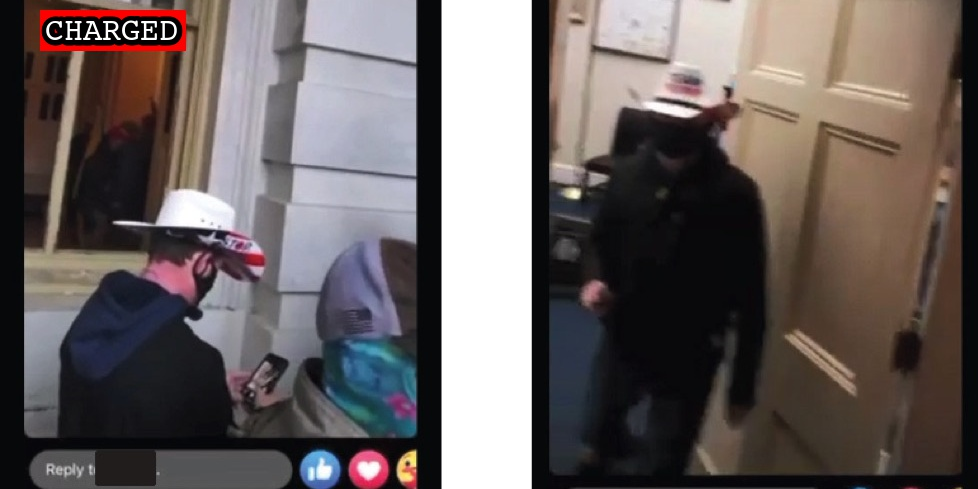
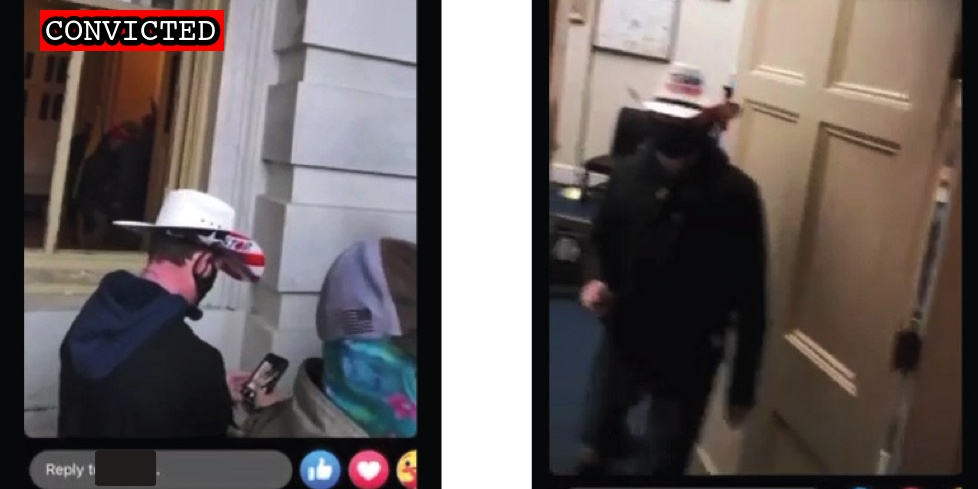
Latest import

Changed region(s): [[0.0613, 0.0, 0.2454, 0.1227]]

diff --git a/docs/_suspects/roger-baugh.md b/docs/_suspects/roger-baugh.md
@@ -1,0 +1,53 @@
+---
+name: Roger Baugh
+lastName: Baugh
+hashtag:
+aka:
+residence: Kentucky
+status: Charged
+date: 2022-09-20
+charged: 2022-09-20
+indicted:
+convicted: 2022-10-21
+acquitted:
+sentenced:
+dismissed:
+deceased:
+plea_hearing:
+trial_date:
+trial_type:
+sentencing:
+status_conference:
+age:
+occupation:
+affiliations:
+jurisdiction: Federal
+image: /images/preview/roger-baugh.jpg
+suspect: roger-baugh.jpg
+booking:
+courtroom:
+courthouse:
+raid:
+perpwalk:
+quote:
+title: Roger Baugh charged on September 20th, 2022
+description: Click for latest case details. Suspects innocent until proven guilty.
+author: seditiontrack
+layout: suspect
+published: false
+caseNumber: 22-cr-0313
+caseName:
+judge:
+videos:
+charges:
+  - code: 18 USC § 231(a)(3)
+    title: Obstruction of Law Enforcement During Civil Disorder
+    url: https://www.law.cornell.edu/uscode/text/18/231
+    felony: true
+sentence:
+---
+
+- [News Report]()
+- [Information](https://www.justice.gov/usao-dc/case-multi-defendant/file/1546241/download)
+- [Plea Agreement](https://www.justice.gov/usao-dc/case-multi-defendant/file/1546246/download)
+- [Statement of Offense](https://www.justice.gov/usao-dc/case-multi-defendant/file/1546251/download)

diff --git a/docs/_suspects/kenneth-massie.md b/docs/_suspects/kenneth-massie.md
@@ -4,16 +4,16 @@ lastName: Massie
 hashtag:
 aka:
 residence: Ohio
-status: Charged
+status: Convicted
 date: 2022-01-07
 charged: 2022-01-07
 indicted:
-convicted:
+convicted: 2022-10-21
 acquitted:
 sentenced:
 dismissed:
 deceased:
-plea_hearing:
+plea_hearing: 2022-10-21
 trial_date:
 trial_type:
 sentencing:
@@ -40,7 +40,14 @@ caseName: USA v. KASTNER
 judge: Randolph D. Moss
 videos:
 charges:
+- code: 40 USC § 5104(e)(2)(G)
+  title: Parading, demonstrating or picketing in a Capitol building
+  url: https://www.law.cornell.edu/uscode/text/40/5104
+  felony: false
 sentence:
 ---
 - [News Report](https://www.daytondailynews.com/crime/man-arrested-in-dayton-facing-capitol-riot-charges/T5GHGW44QVGKDFTUOV4GRLSGLM/)
 - [Statement of Facts](https://www.justice.gov/usao-dc/case-multi-defendant/file/1481626/download)
+- [Information](https://www.justice.gov/usao-dc/case-multi-defendant/file/1546271/download)
+- [Plea Agreement](https://www.justice.gov/usao-dc/case-multi-defendant/file/1546261/download)
+- [Statement of Offense](https://www.justice.gov/usao-dc/case-multi-defendant/file/1546266/download)

diff --git a/docs/_suspects/richard-escalera.md b/docs/_suspects/richard-escalera.md
@@ -1,0 +1,47 @@
+---
+name: Richard Escalera
+lastName: Escalera
+hashtag:
+aka:
+residence: Florida
+status: Charged
+date: 2022-10-20
+charged: 2022-10-20
+indicted:
+convicted:
+acquitted:
+sentenced:
+dismissed:
+deceased:
+plea_hearing:
+trial_date:
+trial_type:
+sentencing:
+status_conference:
+age:
+occupation:
+affiliations:
+jurisdiction: Federal
+image: /images/preview/richard-escalera.jpg
+suspect: richard-escalera.jpg
+booking:
+courtroom:
+courthouse:
+raid:
+perpwalk:
+quote:
+title: Richard Escalera charged on October 20th, 2022
+description: Click for latest case details. Suspects innocent until proven guilty.
+author: seditiontrack
+layout: suspect
+published: false
+caseNumber: 
+caseName:
+judge:
+videos:
+charges:
+sentence:
+---
+- [News Report]()
+- [Complaint](https://www.justice.gov/usao-dc/case-multi-defendant/file/1546276/download)
+- [Statement of Facts](https://www.justice.gov/usao-dc/case-multi-defendant/file/1546281/download)

diff --git a/docs/_suspects/alan-culbertson.md b/docs/_suspects/alan-culbertson.md
@@ -1,0 +1,47 @@
+---
+name: Alan Culbertson
+lastName: Culbertson
+hashtag:
+aka:
+residence: South Carolina
+status: Charged
+date: 2022-09-16
+charged: 2022-09-16
+indicted:
+convicted:
+acquitted:
+sentenced:
+dismissed:
+deceased:
+plea_hearing:
+trial_date:
+trial_type:
+sentencing:
+status_conference:
+age:
+occupation:
+affiliations:
+jurisdiction: Federal
+image: /images/preview/alan-culbertson.jpg
+suspect: alan-culbertson.jpg
+booking:
+courtroom:
+courthouse:
+raid:
+perpwalk:
+quote:
+title: Alan Culbertson charged on September 16, 2022
+description: Click for latest case details. Suspects innocent until proven guilty.
+author: seditiontrack
+layout: suspect
+published: false
+caseNumber:
+caseName:
+judge:
+videos:
+charges:
+sentence:
+---
+
+- [News Report]()
+- [Statement of Facts](https://extremism.gwu.edu/sites/g/files/zaxdzs2191/f/William%20Gallman%20Joei%20Gallman%20and%20Alan%20Culbertson%20Statement%20of%20Facts.pdf)

diff --git a/docs/_suspects/william-gallman.md b/docs/_suspects/william-gallman.md
@@ -1,0 +1,47 @@
+---
+name: William Gallman
+lastName: Gallman
+hashtag:
+aka:
+residence: South Carolina
+status: Charged
+date: 2022-09-27
+charged: 2022-09-27
+indicted:
+convicted:
+acquitted:
+sentenced:
+dismissed:
+deceased:
+plea_hearing:
+trial_date:
+trial_type:
+sentencing:
+status_conference:
+age:
+occupation:
+affiliations:
+jurisdiction: Federal
+image: /images/preview/william-gallman.jpg
+suspect: william-gallman.jpg
+booking:
+courtroom:
+courthouse:
+raid:
+perpwalk:
+quote:
+title: William Gallman charged on September 27, 2022
+description: Click for latest case details. Suspects innocent until proven guilty.
+author: seditiontrack
+layout: suspect
+published: false
+caseNumber:
+caseName:
+judge:
+videos:
+charges:
+sentence:
+---
+
+- [News Report]()
+- [Statement of Facts](https://extremism.gwu.edu/sites/g/files/zaxdzs2191/f/William%20Gallman%20Joei%20Gallman%20and%20Alan%20Culbertson%20Statement%20of%20Facts.pdf)

diff --git a/docs/_suspects/john-okelly.md b/docs/_suspects/john-okelly.md
@@ -1,0 +1,48 @@
+---
+name: John O'Kelly
+lastName: O'Kelly
+hashtag:
+aka:
+residence:
+status: Charged
+date: 2022-10-17
+charged: 2022-10-17
+indicted:
+convicted:
+acquitted:
+sentenced:
+dismissed:
+deceased:
+plea_hearing:
+trial_date:
+trial_type:
+sentencing:
+status_conference:
+age:
+occupation:
+affiliations:
+jurisdiction: Federal
+image: /images/preview/john-okelly.jpg
+suspect: john-okelly.jpg
+booking:
+courtroom:
+courthouse:
+raid:
+perpwalk:
+quote:
+title: John O'Kelly charged on October 17th, 2022
+description: Click for latest case details. Suspects innocent until proven guilty.
+author: seditiontrack
+layout: suspect
+published: false
+caseNumber:
+caseName:
+judge:
+videos:
+charges:
+sentence:
+---
+
+- [News Report]()
+- [Complaint](https://www.justice.gov/usao-dc/case-multi-defendant/file/1545941/download)
+- [Statement of Facts](https://www.justice.gov/usao-dc/case-multi-defendant/file/1545946/download)

diff --git a/docs/_suspects/joei-gallman.md b/docs/_suspects/joei-gallman.md
@@ -1,0 +1,47 @@
+---
+name: Joei Gallman
+lastName: Gallman
+hashtag:
+aka:
+residence: South Carolina
+status: Charged
+date: 2022-09-27
+charged: 2022-09-27
+indicted:
+convicted:
+acquitted:
+sentenced:
+dismissed:
+deceased:
+plea_hearing:
+trial_date:
+trial_type:
+sentencing:
+status_conference:
+age:
+occupation:
+affiliations:
+jurisdiction: Federal
+image: /images/preview/joei-gallman.jpg
+suspect: joei-gallman.jpg
+booking:
+courtroom:
+courthouse:
+raid:
+perpwalk:
+quote:
+title: Joei Gallman charged on September 27, 2022
+description: Click for latest case details. Suspects innocent until proven guilty.
+author: seditiontrack
+layout: suspect
+published: false
+caseNumber:
+caseName:
+judge:
+videos:
+charges:
+sentence:
+---
+
+- [News Report]()
+- [Statement of Facts](https://extremism.gwu.edu/sites/g/files/zaxdzs2191/f/William%20Gallman%20Joei%20Gallman%20and%20Alan%20Culbertson%20Statement%20of%20Facts.pdf)

diff --git a/docs/_suspects/weston-sobotka.md b/docs/_suspects/weston-sobotka.md
@@ -1,0 +1,47 @@
+---
+name: Weston Sobotka
+lastName: Sobotka
+hashtag:
+aka:
+residence: Virginia
+status: Charged
+date: 2022-08-17
+charged:
+indicted:
+convicted:
+acquitted:
+sentenced:
+dismissed:
+deceased:
+plea_hearing:
+trial_date:
+trial_type:
+sentencing:
+status_conference:
+age:
+occupation:
+affiliations:
+jurisdiction: Federal
+image: /images/preview/weston-sobotka.jpg
+suspect: weston-sobotka.jpg
+booking:
+courtroom:
+courthouse:
+raid:
+perpwalk:
+quote:
+title: Weston Sobotka charged on August 8, 2022
+description: Click for latest case details. Suspects innocent until proven guilty.
+author: seditiontrack
+layout: suspect
+published: false
+caseNumber:
+caseName:
+judge:
+videos:
+charges:
+sentence:
+---
+
+- [News Report]()
+- [Statement of Facts](https://extremism.gwu.edu/sites/g/files/zaxdzs2191/f/Weston%20Sobotka%20Statement%20of%20Facts.pdf)
